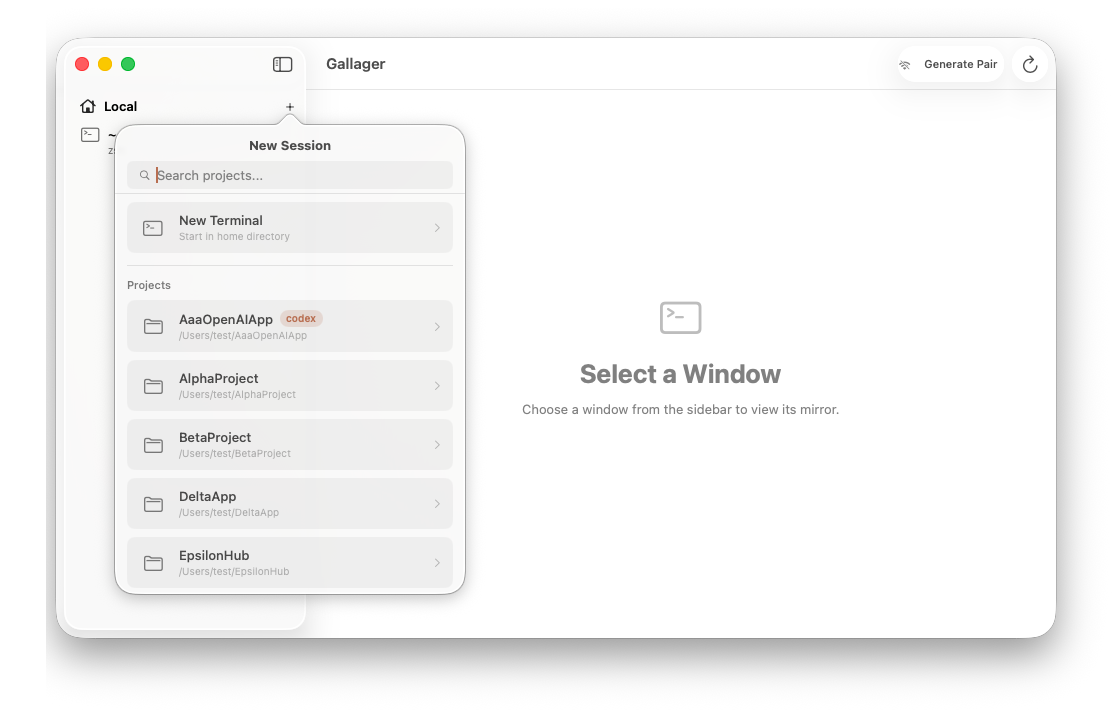
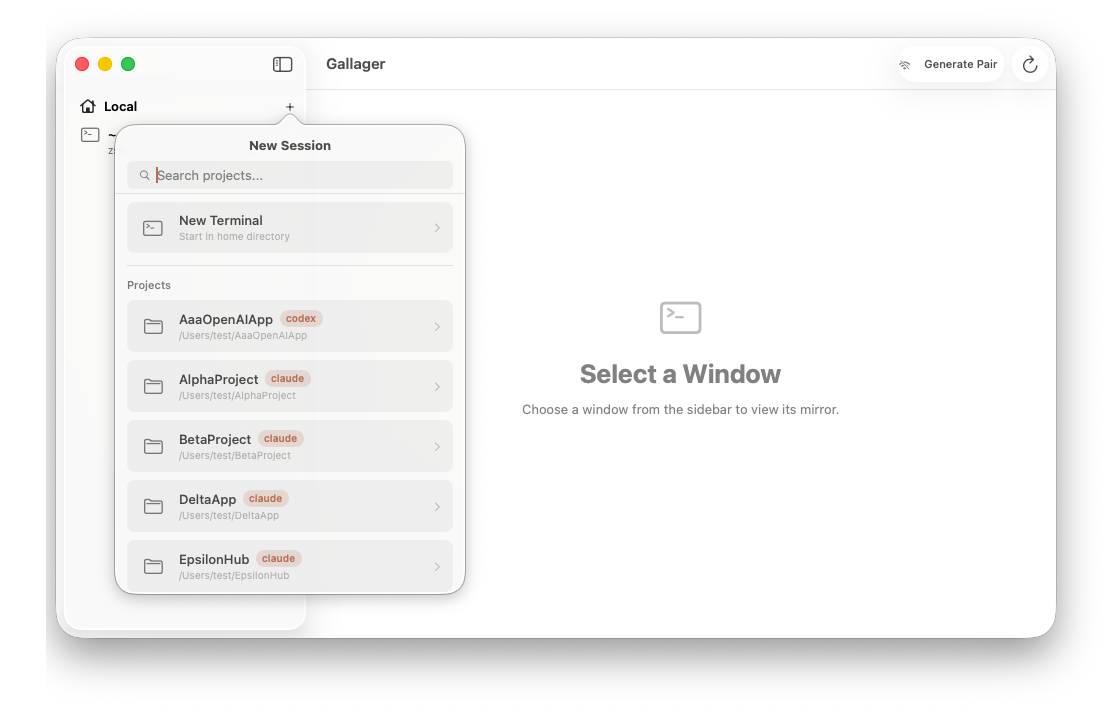
Unify project-row agent badge: lowercase macOS style everywhere, badge Claude Code too (#692)
* Unify project-row agent badge: lowercase short_name everywhere, badge Claude Code too

Both platforms now badge every project row with the plugin presentation's
short_name (plugin id as fallback), with no per-platform casing transform.

- macOS `NewSessionContent` takes a `pluginShortName` resolver and drops the
  `claude-code -> nil` hide gate. The local new-session sites resolve from the
  `PluginRegistry`; the remote-host popover resolves from the viewer
  `SessionStore` presentations (matching iOS).
- iOS `ProjectPickerSheet` drops the `!= "claude-code"` gate so Claude Code
  projects get a badge too.
- Bundled `claude-code` / `codex` manifests ship lowercase `short_name`
  ("claude" / "codex") -- the casing comes from the data, not a UI transform.
- Milestone notification copy switches to `displayName` (fallback "Claude Code")
  so it no longer reads "claude committed..." with the lowercased short name.

E2E: deleted the project-list baselines that now render a badge (CI regenerates
them); updated the two iOS picker scenarios' badge assertions/comments to the
lowercase badge text.

Closes #691

* Address PR review comments: title lineLimit + Claude-badge e2e assertions

- Add .lineLimit(1) to the iOS picker row's project name and the macOS
  NewSessionRow title so long names truncate instead of wrapping against
  the now-always-present agent badge (matching the subtitle treatment).
- Strengthen both iOS scenarios to prove Claude rows carry a badge:
[…]

diff --git a/ClaudeSpyPackage/Sources/ClaudeSpyFeature/Views/SessionListView.swift b/ClaudeSpyPackage/Sources/ClaudeSpyFeature/Views/SessionListView.swift
@@ -813,17 +813,19 @@
                                             HStack(spacing: 6) {
                                                 Text(project.name)
                                                     .foregroundStyle(.primary)
+                                                    .lineLimit(1)
 
-                                                if project.pluginID != "claude-code" {
-                                                    Text(presentationShortName(for: project.pluginID))
-                                                        .font(.caption2.weight(.semibold))
-                                                        .padding(.horizontal, 6)
-                                                        .padding(.vertical, 2)
-                                                        .background(
-                                                            Capsule().fill(Color.accentColor.opacity(0.18))
-                                                        )
-                                                        .foregroundStyle(Color.accentColor)
-                                                }
+                                                // Every project row carries an agent badge (issue #691):
+                                                // the presentation short_name, plugin id as fallback. No
+                                                // per-agent gate — Claude Code projects get a badge too.
+                                                Text(presentationShortName(for: project.pluginID))
+                                                    .font(.caption2.weight(.semibold))
+                                                    .padding(.horizontal, 6)
+                                                    .padding(.vertical, 2)
+                                                    .background(
+                                                        Capsule().fill(Color.accentColor.opacity(0.18))
+                                                    )
+                                                    .foregroundStyle(Color.accentColor)
                                             }
                                             Text(project.path)
                                                 .font(.caption)

diff --git a/ClaudeSpyPackage/Sources/ClaudeSpyServerFeature/Views/MainViewComponents/NewSessionContent.swift b/ClaudeSpyPackage/Sources/ClaudeSpyServerFeature/Views/MainViewComponents/NewSessionContent.swift
@@ -20,6 +20,12 @@ struct NewSessionContent: View {
     let isLoadingProjects: Bool
     let creatingSelection: NewSessionCreatingState?
     let onCreate: (AgentProject?) -> Void
+    /// Resolves a project's plugin id to its agent badge text — the presentation
+    /// `short_name`, with the plugin id as fallback. Every project row carries a
+    /// badge (issue #691), Claude Code included, so this always yields text.
+    /// Local call sites resolve from the `PluginRegistry`; remote ones from the
+    /// host's pushed presentations in `SessionStore`.
+    let pluginShortName: (String) -> String
     /// When true, constrains size for popover use. When false, expands to fill available space.
     var popover = true
 
@@ -145,7 +151,7 @@ struct NewSessionContent: View {
                                     isCreating: creatingSelection == .project(project.id),
                                     isDisabled: isCreating,
                                     isSelected: selection == .project(project.id),
-                                    badge: project.pluginID == "claude-code" ? nil : project.pluginID
+                                    badge: pluginShortName(project.pluginID)
                                 ) {
                                     dismiss()
                                     onCreate(project)
@@ -220,8 +226,9 @@ struct NewSessionRow: View {
     let isCreating: Bool
     let isDisabled: Bool
     var isSelected = false
-    /// Optional badge text shown next to the title, used to mark non-default
-    /// agents (e.g. "Codex") so users can tell them apart in mixed lists.
+    /// Badge text shown next to the title — the agent's short name (e.g. "codex",
+    /// "claude") so users can tell agents apart in mixed lists. Optional so the row
+    /// type stays reusable; `NewSessionContent` always supplies one (issue #691).
     var badge: String?
     let action: () -> Void
 
@@ -250,6 +257,7 @@ struct NewSessionRow: View {
                         Text(title)
                             .font(.body.weight(.medium))
                             .foregroundStyle(.primary)
+                            .lineLimit(1)
 
                         if let badge {
                             Text(badge)

diff --git a/ClaudeSpyPackage/Sources/ClaudeSpyE2ELib/Scenarios/ProjectSearchIOSScenario.swift b/ClaudeSpyPackage/Sources/ClaudeSpyE2ELib/Scenarios/ProjectSearchIOSScenario.swift
@@ -22,17 +22,25 @@ public enum ProjectSearchIOSScenario {
         // (waiting for the project items implies the loading spinner is gone)
         // `AaaOpenAIApp` is seeded by the Codex scanner so the picker always
         // has a Codex-tagged row near the top of the list to assert against.
-        // The name avoids the substring "Codex" so the badge assertion below
+        // The name avoids the substring "codex" so the badge assertion below
         // can't accidentally match this row's project name.
         TestStep.log("Verifying alphabetically-first mock projects are listed")
         TestStep.iosWaitForElement(.labelContains("AaaOpenAIApp"), timeout: 15)
         TestStep.iosWaitForElement(.labelContains("AlphaProject"), timeout: 5)
         TestStep.iosWaitForElement(.labelContains("BetaProject"), timeout: 5)
         TestStep.iosWaitForElement(.labelContains("DeltaApp"), timeout: 5)
-        // The Codex tag (rendered as a "Codex" badge next to the project name)
-        // is the visible signal that the picker distinguishes Codex projects
-        // from Claude ones.
-        TestStep.iosWaitForElement(.labelContains("Codex"), timeout: 5)
+        // The codex badge (the agent's lowercase short_name, issue #691, next to
+        // the project name) is the visible signal that the picker distinguishes
+        // Codex projects from Claude ones (which now carry a "claude" badge).
+        TestStep.iosWaitForElement(.labelContains("codex"), timeout: 5)
+        // Claude rows carry a badge too: match a single element (the row's
+        // combined accessibility label) containing both the Claude project's
+        // name and the "claude" badge, so re-gating the badge to non-Claude
+        // agents fails here.
+        TestStep.iosWaitForElement(
+            .allOf([.labelContains("AlphaProject"), .labelContains("claude")]),
+            timeout: 5
+        )
         TestStep.iosScreenshot(label: "ios-all-projects-visible")
 
         // ── Tap search field and type fuzzy search ────────────────

diff --git a/ClaudeSpyPackage/Sources/ClaudeSpyE2ELib/Scenarios/MultiPluginPresentationsScenario.swift b/ClaudeSpyPackage/Sources/ClaudeSpyE2ELib/Scenarios/MultiPluginPresentationsScenario.swift
@@ -22,12 +22,21 @@ public enum MultiPluginPresentationsScenario {
             command: #"gallager() { "${macOSAppPath}/Contents/MacOS/GallagerCLI" "$@"; }"#
         )
 
-        // 2. Open the project picker — both plugins' projects coexist, with the
-        //    Codex project carrying a "Codex" badge and Claude projects none.
+        // 2. Open the project picker — both plugins' projects coexist. Every row
+        //    carries its agent's short_name badge (issue #691): the Codex project
+        //    a "codex" badge, Claude projects a "claude" badge.
         TestStep.iosTap(.label("New Session"))
         TestStep.iosWaitForElement(.labelContains("AaaOpenAIApp"), timeout: 15)
         TestStep.iosWaitForElement(.labelContains("AlphaProject"), timeout: 5)
-        TestStep.iosWaitForElement(.labelContains("Codex"), timeout: 5)
+        TestStep.iosWaitForElement(.labelContains("codex"), timeout: 5)
+        // Claude rows carry a badge too: match a single element (the row's
+        // combined accessibility label) containing both the Claude project's
+        // name and the "claude" badge, so re-gating the badge to non-Claude
+        // agents fails here.
+        TestStep.iosWaitForElement(
+            .allOf([.labelContains("AlphaProject"), .labelContains("claude")]),
+            timeout: 5
+        )
         TestStep.iosScreenshot(label: "ios-both-plugins-projects")
 
         // 3. Disable codex via the CLI. The host pushes fresh session state, so

diff --git a/ClaudeSpyPackage/Sources/ClaudeSpyServerFeature/Coordinators/AppCoordinator.swift b/ClaudeSpyPackage/Sources/ClaudeSpyServerFeature/Coordinators/AppCoordinator.swift
@@ -1724,11 +1724,13 @@
             let project = windowManager.projectName(forClaudeSessionID: milestone.sessionID) ?? "your project"
             // Agent-aware copy (issue #602): milestone counters are Claude-only
             // today (`claude_code.commit.count` etc.), but resolve the owning
-            // agent's short name from its manifest so the notification stays
-            // correct if a Codex commit/PR source ever lands. Falls back to
-            // "Claude" when the pane's plugin id can't be resolved.
+            // agent's name from its manifest so the notification stays correct if
+            // a Codex commit/PR source ever lands. Uses `displayName`, not
+            // `shortName`: the bundled short names are lowercase (issue #691) and
+            // would read wrong mid-sentence ("claude committed…"). Falls back to
+            // "Claude Code" when the pane's plugin id can't be resolved.
             let pluginID = windowManager.paneStates[paneId]?.agentSession?.pluginID
-            let agent = pluginID.flatMap { pluginRegistry?.manifest($0)?.shortName } ?? "Claude"
+            let agent = pluginID.flatMap { pluginRegistry?.manifest($0)?.displayName } ?? "Claude Code"
             let spec = Self.milestoneNotification(milestone, agent: agent, project: project)
             await handlePluginNotification(spec, paneId: paneId)
         }

diff --git a/ClaudeSpyPackage/Tests/ClaudeSpyServerFeatureTests/PluginRegistryTests.swift b/ClaudeSpyPackage/Tests/ClaudeSpyServerFeatureTests/PluginRegistryTests.swift
@@ -33,7 +33,7 @@
             #expect(codex != nil)
             #expect(codex?.processNames == ["codex"])
             #expect(codex?.color == "#3B82F6")
-            #expect(codex?.shortName == "Codex")
+            #expect(codex?.shortName == "codex")
         }
 
         @Test("processNamesByPlugin surfaces detection names for both bundled plugins")
@@ -103,7 +103,7 @@
             let claude = presentations.first
             #expect(claude?.id == "claude-code")
             #expect(claude?.displayName == "Claude Code")
-            #expect(claude?.shortName == "Claude")
+            #expect(claude?.shortName == "claude")
             #expect(claude?.color == "#cb6f3a")
             #expect(claude?.version == "1.0.0")
 

diff --git a/ClaudeSpyPackage/Sources/ClaudeSpyServerFeature/Views/MainView.swift b/ClaudeSpyPackage/Sources/ClaudeSpyServerFeature/Views/MainView.swift
@@ -1182,6 +1182,7 @@ public struct MainView: View {
                 onCreate: { project in
                     createNewSession(project: project)
                 },
+                pluginShortName: { coordinator.pluginRegistry?.manifest($0)?.shortName ?? $0 },
                 popover: false
             )
             .frame(maxWidth: .infinity, maxHeight: .infinity)
@@ -4093,7 +4094,8 @@ public struct MainView: View {
             creatingSelection: creatingSelection,
             onCreate: { project in
                 createNewSession(project: project)
-            }
+            },
+            pluginShortName: { coordinator.pluginRegistry?.manifest($0)?.shortName ?? $0 }
         )
     }
 

diff --git a/ClaudeSpyPackage/Sources/ClaudeSpyServerFeature/Views/MainViewComponents/RemoteHostSidebarSection.swift b/ClaudeSpyPackage/Sources/ClaudeSpyServerFeature/Views/MainViewComponents/RemoteHostSidebarSection.swift
@@ -98,7 +98,8 @@ struct RemoteHostSidebarSection: View {
                         projects: sessionStore.projects(for: host.id),
                         isLoadingProjects: !sessionStore.hasReceivedState(for: host.id),
                         creatingSelection: creatingSelection,
-                        onCreate: onCreate
+                        onCreate: onCreate,
+                        pluginShortName: { sessionStore.presentation(forPluginID: $0)?.shortName ?? $0 }
                     )
                 }
             )

diff --git a/docs/services-reference.md b/docs/services-reference.md
@@ -507,7 +507,7 @@ public enum CodingAgent: String, Codable, Sendable, CaseIterable, Hashable {
 Carries display metadata used to render agent-aware UI:
 
 - `displayName` — `"Claude Code"` / `"Codex"` (full notification titles)
-- `shortName` — `"Claude"` / `"Codex"` (sidebar badges, compact toasts)
+- `shortName` — `"claude"` / `"codex"` (lowercase in the bundled manifests since #691, so project-row agent badges read `claude`/`codex` verbatim with no casing transform in the UI; sidebar badges, compact toasts)
 - `processName` — `"claude"` / `"codex"` (matched against tmux pane process trees in `TmuxService.detectAgentPanes`)
 
 `HookEvent`, `ClaudeSession`, and `ClaudeProjectInfo` all carry an `agent` field that defaults to `.claudeCode` when missing, so older Mac builds and older relay payloads still decode cleanly.
